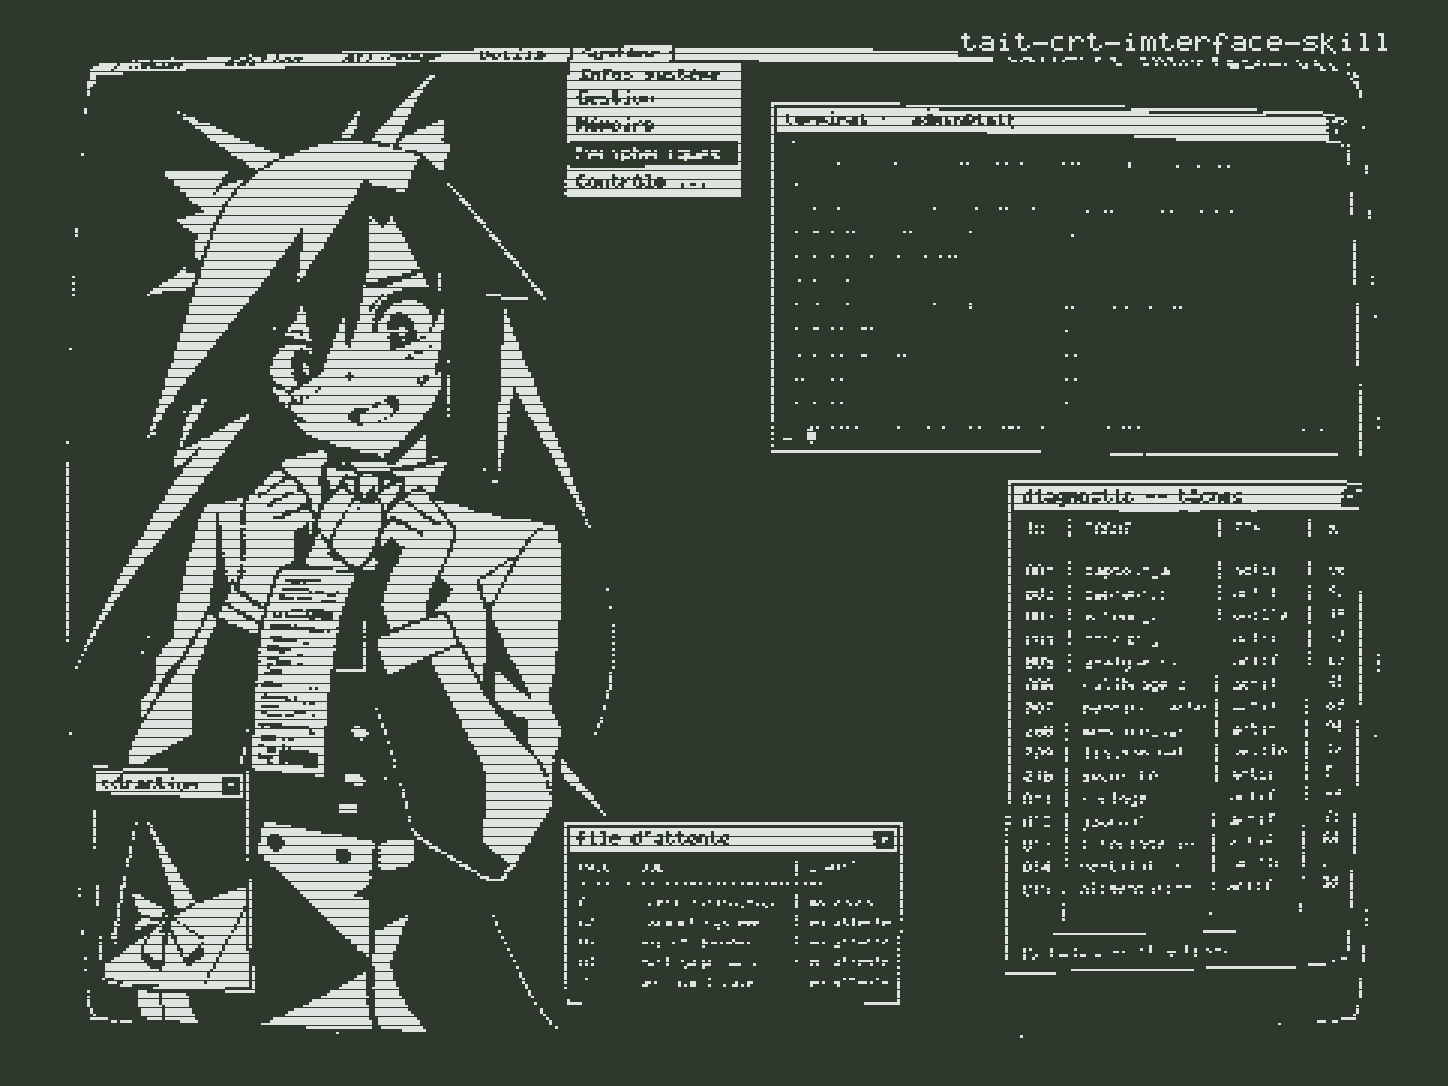
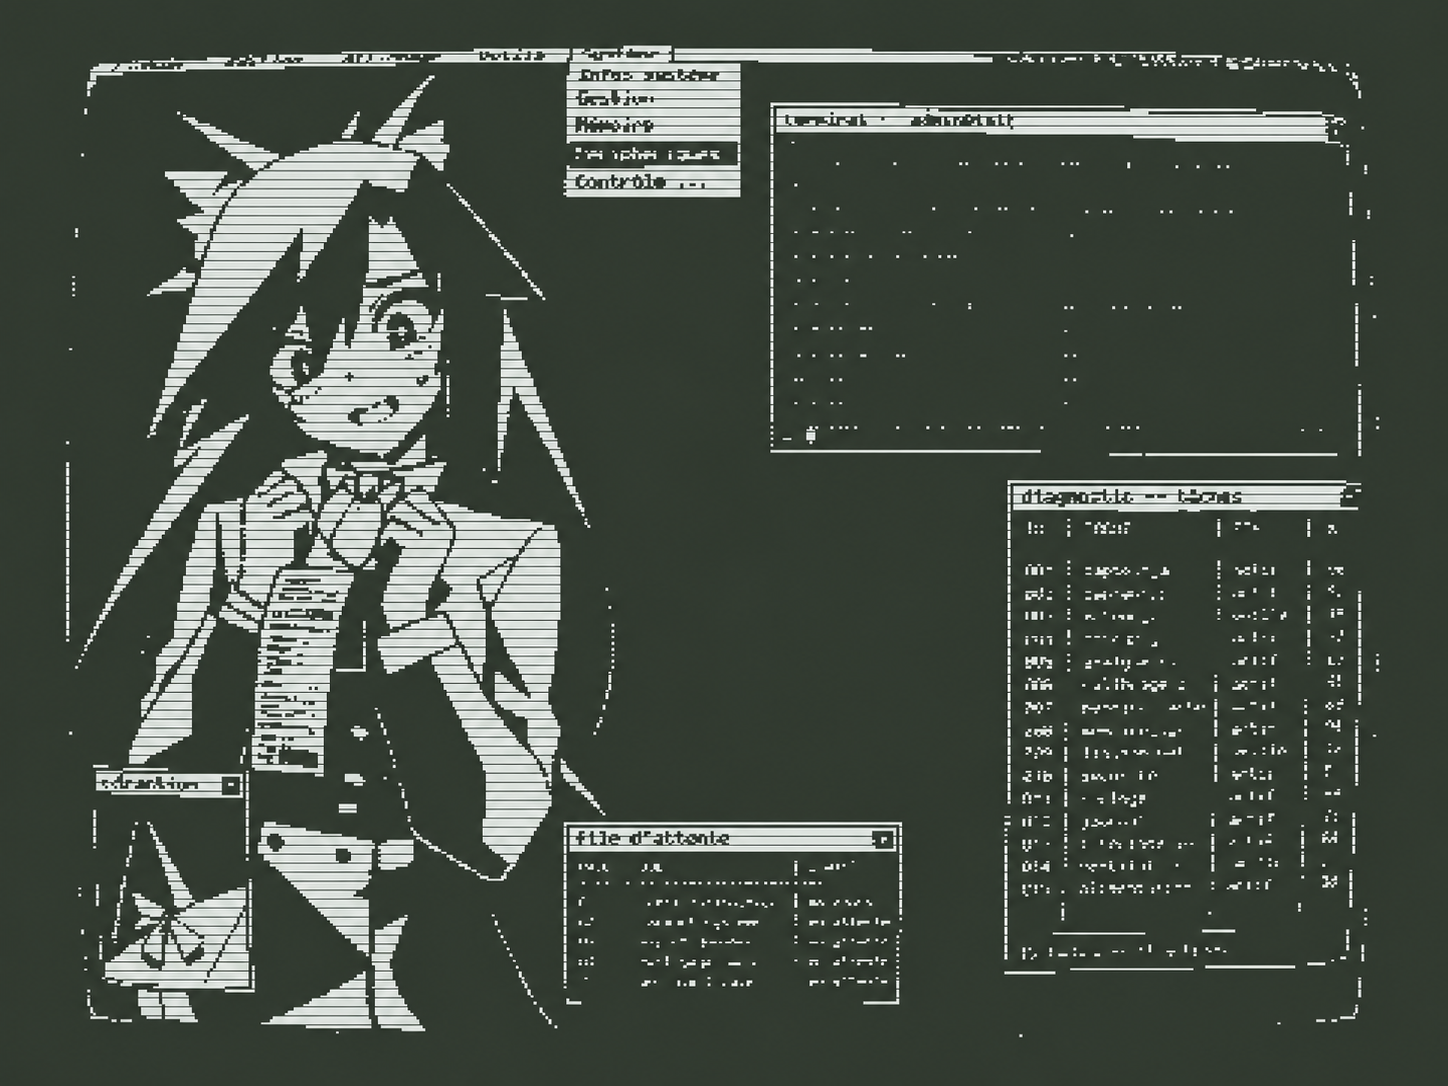
fix: remove generator signatures from OC artwork

diff --git a/assets/oc/README.md b/assets/oc/README.md
@@ -1,13 +1,10 @@
 # AGXCLI OC kit
 
-这套角色是 AGXCLI 的原创黑白 CRT 猫娘协调员：她表示安装、计划、验收与回执这一条工作链，而不是某个环境已经通过验收。所有成图均为二色 `#dee4e0` / `#2e382d` 的 CRT 画面，使用同一角色设定但按展示面重新构图，不靠裁切硬凑尺寸。
+这套角色是 AGXCLI 的原创黑白 CRT 猫娘协调员：她表示安装、计划、验收与回执这一条工作链，而不是某个环境已经通过验收。所有成图均为二色 `#dee4e0` / `#2e382d` 的 CRT 画面，使用同一角色设定但按展示面重新构图，不靠裁切硬凑尺寸。公开资产不包含生成工具名称或签名。
 
 | 文件 | 原始尺寸 | 建议落点 |
 | --- | --- |
-| `agx-oc-github-banner-16x9.png` | 1672×941 | README 顶部横幅 |
-| `agx-oc-avatar-square.png` | 1254×1254 | GitHub 头像、CLI 文档图标、Issue 模板头像 |
-| `agx-oc-social-2x1.png` | 1774×887 | GitHub Settings → General → Social preview image |
-| `agx-oc-overview.png` | 1448×1086 | 项目介绍、概览文档 |
+| `agx-oc-overview.png` | 1448×1086 | README 主视觉、项目介绍 |
 | `agx-oc-focus.png` | 1448×1086 | `plan` / `apply` 相关文档 |
 | `agx-oc-queue.png` | 1448×1086 | `status` / `verify` / 回执相关文档 |
 

diff --git a/README.md b/README.md
@@ -1,6 +1,6 @@
 # AGXCLI
 
-<img src="assets/oc/agx-oc-github-banner-16x9.png" width="100%" alt="AGXCLI 黑白 CRT 猫娘协调员，置于部署与验收诊断界面中。">
+<img src="assets/oc/agx-oc-overview.png" width="720" alt="AGXCLI 黑白 CRT 猫娘协调员，置于部署与验收诊断界面中。">
 
 AGX 的猫娘协调员对应安装、计划、验收和回执；她是项目身份，不代表目标环境已通过 `verified`。其余画幅与 GitHub 文档落点见 [OC kit](assets/oc/README.md)。
 
